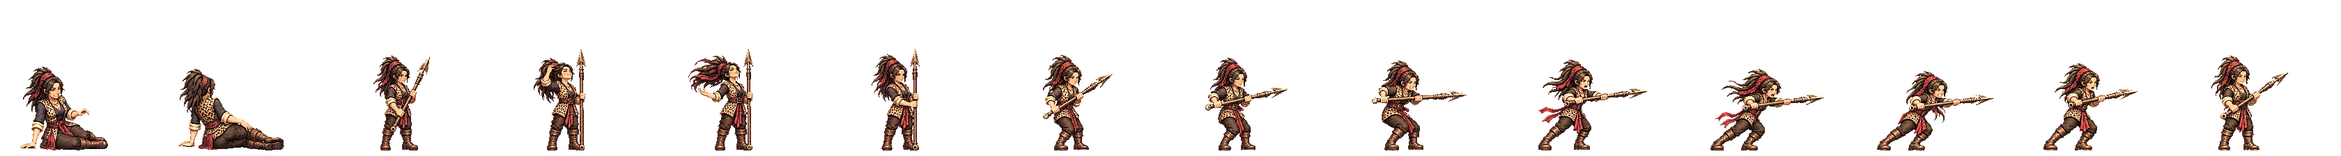
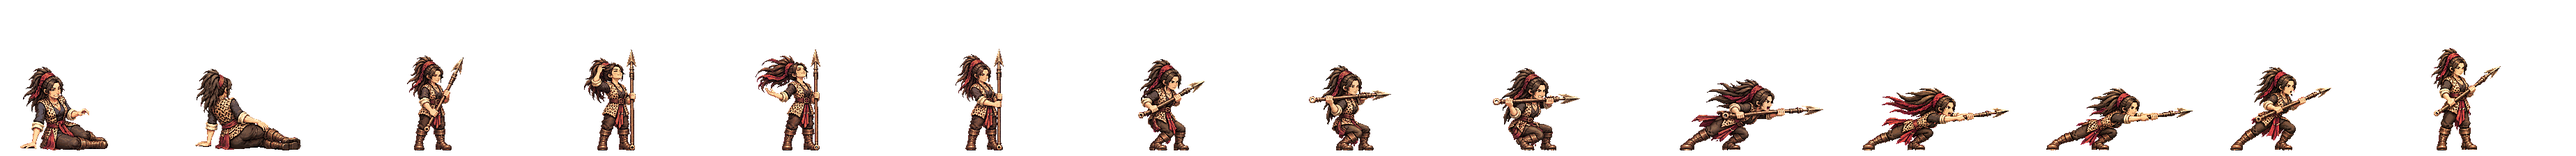
해적 두목 창 찌르기를 새 인형으로 다시(시범) — 낮게 뛰어들어 두 팔을 곧게 뻗는 칸
형 11-24 「팔을 쭉 뻗어서 제대로 찌르는 컷이 없다」. 참고 게임을 보고 고친 인형으로 두 장을 다시 받았다.
- 깊이 찌르는 칸이 뿌리 앞 150px 까지 나가 동작 칸을 이 장수만 264 로(HEROES actw · bake attack4 cw=). 게임은 덧띠 폭 ÷ 칸 수로 칸 폭을 안다
- 굽기: 인형 앞발 끝을 맨 아래 두 줄의 가장 긴 파란 줄로 — 주저앉는 칸은 낮은 무릎을 발끝으로 잡아 14px 어긋났다
- 다시 그린 판은 HEROES src 로 가리킨다(thrust2)

Claude-Session: https://claude.ai/code/session_01TRiuN7s6aDfSnaHxrkctmU

diff --git a/tools/sprite-kit/anim-harness.py b/tools/sprite-kit/anim-harness.py
@@ -28,6 +28,13 @@ TRY = ROOT + '/tools/out/strip/try'
 GAME = ROOT + '/public/realm/anim-px'
 CW, CH, ROOT_X, FOOT_Y = 208, 160, 104, 155
 ACT = dict(cw=240, ch=224, root=92, foot=216)   # bake-scene.py ACT 와 같은 값
+
+
+def use(h):
+    """장수의 동작 칸 폭(actw · 기본 240) — 낮게 깊이 찌르는 새 창 인형은 뿌리 앞으로 160px 까지 나가 240 칸(앞 148)에 안 들어간다 → 그 장수만 288"""
+    ACT['cw'] = h.get('actw', 240)
+    return h
+
 BG = (96, 104, 72)
 
 HEROES = {
@@ -35,7 +42,7 @@ HEROES = {
     'maehwa': dict(strip='gen-maehwa', atk='bow', atk8=False),
     'dalbit': dict(strip='gen-base-w-31-dabeol-dalbit', atk='bow', atk8=False),
     'archer': dict(strip='gen-base-w-13-young-archer', atk='bow', atk8=False),   # 앳된 궁수
-    'pirate': dict(strip='gen-base-w-10-pirate-captain', atk='thrust', atk8=True, act=True, legacy=(('a', 2), ('a', 3), ('b', 3), ('b', 4))),   # 해적 두목(작살) · 끝까지 찌른 칸은 좁은 칸에 안 들어가 당기는 칸으로
+    'pirate': dict(strip='gen-base-w-10-pirate-captain', atk='thrust', src='thrust2', actw=264, atk8=True, act=True, legacy=(('a', 2), ('a', 3), ('b', 3), ('b', 4))),   # 해적 두목(작살) · 끝까지 찌른 칸은 좁은 칸에 안 들어가 당기는 칸으로
     'diver': dict(strip='gen-base-w-17-mahan-pearl-diver', atk='thrust', atk8=True, act=True, legacy=(('a', 1), ('a', 2), ('a', 3), ('a', 1)),
                   cells8=[('a', 1), ('a', 2), ('a', 3), ('a', 4), ('a', 4), ('a', 3), ('a', 2), ('a', 1)]),   # 해녀(작살) · 뒤 판 b 는 그림 도구가 거절 → 앞 판으로: 타격 = 넷째(a4) · wire-hero hit=3
     'huntress': dict(strip='gen-base-w-06-buyeo-huntress', atk='thrust', atk8=True, act=True, legacy=(('a', 2), ('a', 3), ('b', 3), ('b', 4))),   # 부여 사냥꾼(창)
@@ -57,6 +64,11 @@ HEROES = {
     'deulme': dict(strip='gen-base-w-34-chopal-deulme', atk='thrust', atk8=True, act=True, legacy=(('a', 2), ('a', 3), ('b', 3), ('b', 4))),   # 초팔 들메(창 · 우람한 뼈대 · 가슴 L)
     'dana': dict(strip='gen-base-w-102-garak-dana', atk='bow', atk8=False),   # 가락 다나(활 · 가슴 XL)
     'maena': dict(strip='gen-base-w-36-baekje-maena', atk='bow', atk8=False),   # 백제 매나(활 · 가슴 L)
+    'sogeum': dict(strip='gen-base-w-56-dongokjeo-sogeum', atk='slash', atk8=True, act=True, legacy=(('a', 1), ('a', 3), ('b', 2), ('b', 4))),   # 동옥저 소금 상인(단검 · 가슴 XL) · 좁은 칸은 아라처럼 덜 뻗은 칸
+    'budeul': dict(strip='gen-budeul', atk='slash', atk8=True, act=True, legacy=(('a', 1), ('a', 3), ('b', 2), ('b', 4))),   # 골벌 부들(단검 · 가슴 L)
+    'gabi': dict(strip='gen-base-w-53-hwanna-gabi', atk='slash', atk8=True, act=True, legacy=(('a', 1), ('a', 3), ('b', 2), ('b', 4))),   # 환나 가비(단검 · 가슴 L)
+    'saltw': dict(strip='gen-base-w-18-jinhan-salt-widow', atk='slash', atk8=True, act=True, legacy=(('a', 1), ('a', 3), ('b', 2), ('b', 4))),   # 진한 소금 과부(단검 · 가슴 XL)
+    'beombal': dict(strip='gen-beombal', atk='slash', atk8=True, act=True, legacy=(('a', 1), ('a', 3), ('b', 2), ('b', 4))),   # 맥 범발(단검 · 가슴 M)
     'haebi': dict(strip='gen-haebi', atk='chop', atk8=True, act=True),   # act = 공격 여덟 칸이 넓은 동작 칸(240×224 · 뿌리 92 · 발 줄 216)
     'areum': dict(strip='gen-areum', atk='slam', atk8=True, act=True, lock='none'),   # 받은 그림 그대로(얼굴을 떠다 붙이지 않는다 — 11-24: 뭉친 얼굴이 여덟 칸에 퍼졌다) · 옛 lock='face': 메가 머리 뒤로 지나간다 — 머리 상자는 메를 자르고(「포스터」), 윗몸을 통째로 묶으면 떠다닌다(11-24 형) → 얼굴 안쪽만 묶는다
 }
@@ -113,9 +125,10 @@ def cells8(h):
 
 def attack(name):
     """넓은 칸 공격 두 판(STD/out-<장수>-<꼬리표>-a/b.png + scene-…)을 굽고 여덟 칸을 뿌리 선과 함께 늘어놓는다"""
-    h = HEROES[name]
+    h = use(HEROES[name])
     for half in sorted({t for t, _ in cells8(h)}):
-        run('bake-scene.py', 'attack4', f'{STD}/out-{name}-{h["atk"]}-{half}.png', name, f'{h["atk"]}8-{half}', f'{STD}/scene-{name}-{h["atk"]}-{half}.png')
+        src = h.get('src', h['atk'])   # 다시 그린 판(예: thrust2)은 src 로 가리킨다 — 굽는 이름은 그대로
+        run('bake-scene.py', 'attack4', f'{STD}/out-{name}-{src}-{half}.png', name, f'{h["atk"]}8-{half}', f'{STD}/scene-{name}-{src}-{half}.png', f'cw={ACT["cw"]}')
     ims = [Image.open(f'{PX}/{name}-{h["atk"]}8-{t}-{i}.png').convert('RGBA') for t, i in cells8(h)]
     z = 3
     row = Image.new('RGB', (ACT['cw'] * z * 4, ACT['ch'] * z * 2), BG)
@@ -148,7 +161,7 @@ def quirk(name):
 
 def act_cells(name):
     """넓은 칸 공격 여덟 칸 → 본 띠용 좁은 칸 넷(<꼬리표>-1..4 = 준비2 · 넘어옴 · 내림 · 거둠) — 뿌리·발 줄을 맞춰 잘라 낸다. 본편 전장처럼 20칸만 읽는 곳이 쓴다"""
-    h = HEROES[name]
+    h = use(HEROES[name])
     # 본 띠의 좁은 칸(208)은 뿌리 앞으로 104px 까지만 담는다 — 멀리 찌르는 칸은 잘린다(해적 두목 작살 119px) → 장수마다 좁은 칸에 들어가는 칸을 고른다(legacy)
     src = [f'{PX}/{name}-{h["atk"]}8-{t}-{i}.png' for t, i in h.get('legacy', (('a', 2), ('a', 4), ('b', 1), ('b', 4)))]
     for k, sp in enumerate(src):
@@ -174,7 +187,7 @@ def groups(h, ncell):
 
 
 def check(name, main=None, extra=None, grp=None):
-    h = HEROES[name]
+    h = use(HEROES[name])
     main = main or f'{GAME}/{h["strip"]}.png'
     extra = extra or f'{GAME}/{h["strip"]}-x.png'
     if not os.path.exists(main):
@@ -190,7 +203,7 @@ def check(name, main=None, extra=None, grp=None):
 
 
 def strip(name, install=False):
-    h = HEROES[name]
+    h = use(HEROES[name])
     os.makedirs(TRY, exist_ok=True)
     ext = f'{TRY}/{h["strip"]}-ext.png'
     if h.get('act'):
@@ -255,7 +268,7 @@ def _room(im):
 def strip_act(name, install=False):
     """넓은 동작 칸 장수: 본 띠(208×160 · 20칸) + 덧띠(240×224 · 쓰러짐 2 [+ 개성 4] + 공격 8)"""
     import shutil
-    h = HEROES[name]
+    h = use(HEROES[name])
     act_cells(name)
     ext = f'{TRY}/{h["strip"]}-ext.png'
     run('strip-build.py', name, h['atk'], ext, 'align', 'rooted', 'ext')

diff --git a/tools/sprite-kit/bake-scene.py b/tools/sprite-kit/bake-scene.py
@@ -294,7 +294,12 @@ def attack4(path, name, tag, scene):
         ry, rx = np.nonzero(blue[y0:y1, x0:x1])
         if len(ry):
             gy = ry.max()
-            toe_rig = x0 + rx[ry >= gy - band].max()                       # 인형 앞발의 발끝(받은 그림 좌표)
+            # 인형 앞발의 발끝(받은 그림 좌표) = 맨 아래 두 줄에서 가장 긴 파란 줄의 오른쪽 끝.
+            #   바닥 띠 전체에서 가장 오른쪽 파란 점을 쓰면, 깊이 주저앉는 칸은 낮게 누운 정강이·무릎이 발끝보다 앞이라 14px 어긋났다(11-24 새 찌르기 인형)
+            fc = np.unique(rx[ry >= gy - 1])
+            cut = np.nonzero(np.diff(fc) > 2)[0]
+            segs = [(int(a_[0]), int(a_[-1])) for a_ in np.split(fc, cut + 1)]
+            toe_rig = x0 + max(segs, key=lambda r_: r_[1] - r_[0])[1]
             cols = np.nonzero(m[by1 - band:by1, :].any(0))[0]
             runs, st = [], None
             for a_, b_ in zip(cols, list(cols[1:]) + [None]):
@@ -387,7 +392,10 @@ def fall(path, name, scene, tag='down', k4=1.0, flip4=False):
 
 
 if __name__ == '__main__':
-    if sys.argv[1] == 'attack4':
+    if sys.argv[1] == 'attack4':   # … [cw=288] 깊이 찌르는 장수는 동작 칸을 넓힌다(뿌리·발 줄은 그대로 · 게임은 덧띠 폭 ÷ 칸 수로 칸 폭을 안다)
+        for a in sys.argv[6:]:
+            if a.startswith('cw='):
+                ACT['cw'] = int(a[3:])
         attack4(sys.argv[2], sys.argv[3], sys.argv[4], sys.argv[5])
         sys.exit()
     if sys.argv[1] == 'fall':
